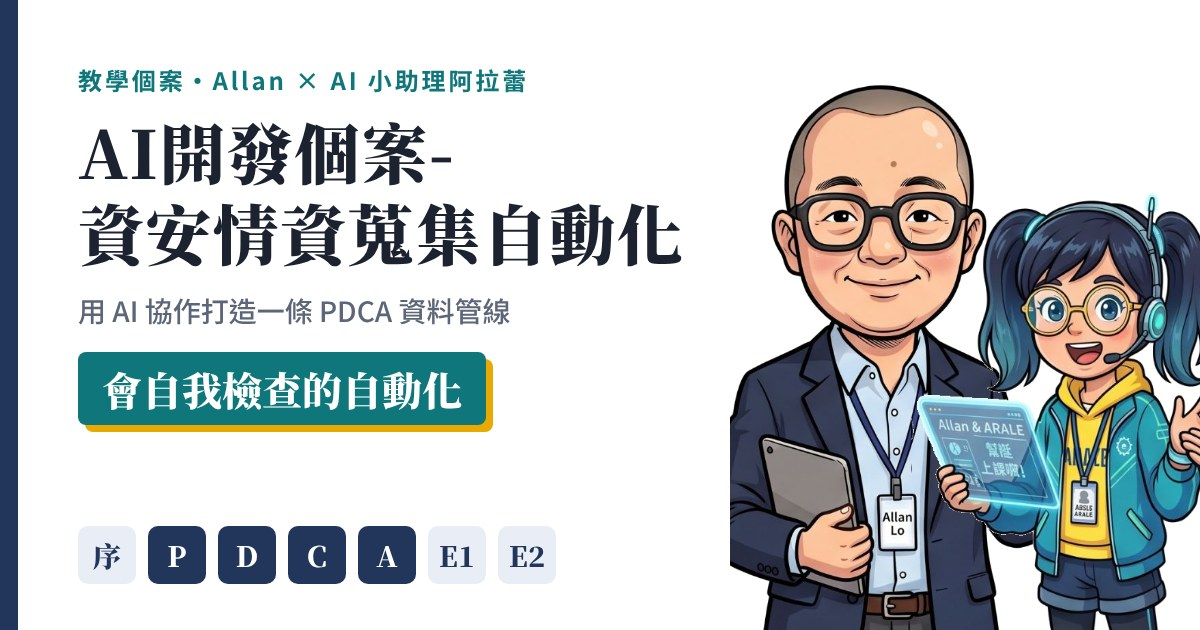
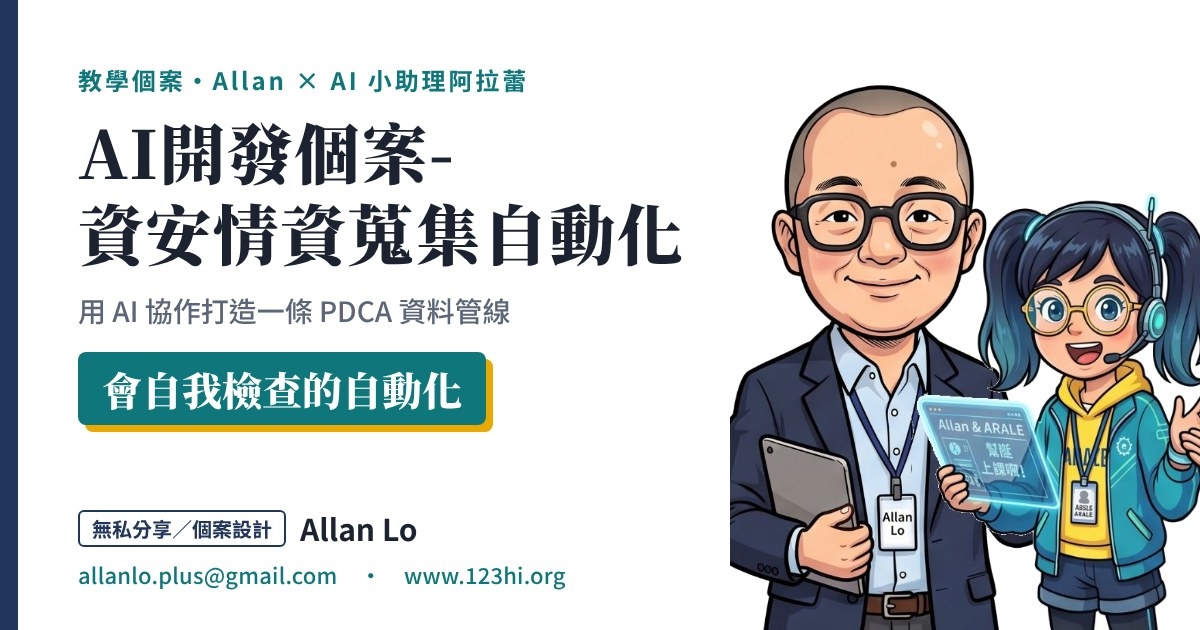
Add author credit to the share card
Claude-Session: https://claude.ai/code/session_01C7NPA9Dx8JzUvtJLURSzXs

Changed region(s): [[0.0617, 0.7841, 0.4933, 0.9349]]

diff --git a/docs/teaching/web/template.html b/docs/teaching/web/template.html
@@ -13,8 +13,8 @@
 <meta property="og:url" content="https://allanloplus.github.io/intelligence/teaching/">
 <meta property="og:title" content="AI開發個案-資安情資蒐集自動化">
 <meta property="og:description" content="Allan 講師與 AI 小助理阿拉蕾的對話式教學個案：怎麼向 AI 交代工作，以及自動化做完後，怎麼知道它有在做、做得對、沒做時會自己補上。主篇 5 集＋延伸篇 2 集。">
-<meta property="og:image" content="https://allanloplus.github.io/intelligence/teaching/og.jpg?v=2">
-<meta property="og:image:secure_url" content="https://allanloplus.github.io/intelligence/teaching/og.jpg?v=2">
+<meta property="og:image" content="https://allanloplus.github.io/intelligence/teaching/og.jpg?v=3">
+<meta property="og:image:secure_url" content="https://allanloplus.github.io/intelligence/teaching/og.jpg?v=3">
 <meta property="og:image:type" content="image/jpeg">
 <meta property="og:image:width" content="1200">
 <meta property="og:image:height" content="630">
@@ -22,7 +22,7 @@
 <meta name="twitter:card" content="summary_large_image">
 <meta name="twitter:title" content="AI開發個案-資安情資蒐集自動化">
 <meta name="twitter:description" content="Allan 講師與 AI 小助理阿拉蕾的對話式教學個案：怎麼向 AI 交代工作，以及自動化做完後，怎麼知道它有在做、做得對、沒做時會自己補上。主篇 5 集＋延伸篇 2 集。">
-<meta name="twitter:image" content="https://allanloplus.github.io/intelligence/teaching/og.jpg?v=2">
+<meta name="twitter:image" content="https://allanloplus.github.io/intelligence/teaching/og.jpg?v=3">
 <meta name="claude:viewport-fit-sides" content="cover">
 <link rel="preconnect" href="https://fonts.googleapis.com">
 <link rel="preconnect" href="https://fonts.gstatic.com" crossorigin>

diff --git a/site/teaching/index.html b/site/teaching/index.html
@@ -13,8 +13,8 @@
 <meta property="og:url" content="https://allanloplus.github.io/intelligence/teaching/">
 <meta property="og:title" content="AI開發個案-資安情資蒐集自動化">
 <meta property="og:description" content="Allan 講師與 AI 小助理阿拉蕾的對話式教學個案：怎麼向 AI 交代工作，以及自動化做完後，怎麼知道它有在做、做得對、沒做時會自己補上。主篇 5 集＋延伸篇 2 集。">
-<meta property="og:image" content="https://allanloplus.github.io/intelligence/teaching/og.jpg?v=2">
-<meta property="og:image:secure_url" content="https://allanloplus.github.io/intelligence/teaching/og.jpg?v=2">
+<meta property="og:image" content="https://allanloplus.github.io/intelligence/teaching/og.jpg?v=3">
+<meta property="og:image:secure_url" content="https://allanloplus.github.io/intelligence/teaching/og.jpg?v=3">
 <meta property="og:image:type" content="image/jpeg">
 <meta property="og:image:width" content="1200">
 <meta property="og:image:height" content="630">
@@ -22,7 +22,7 @@
 <meta name="twitter:card" content="summary_large_image">
 <meta name="twitter:title" content="AI開發個案-資安情資蒐集自動化">
 <meta name="twitter:description" content="Allan 講師與 AI 小助理阿拉蕾的對話式教學個案：怎麼向 AI 交代工作，以及自動化做完後，怎麼知道它有在做、做得對、沒做時會自己補上。主篇 5 集＋延伸篇 2 集。">
-<meta name="twitter:image" content="https://allanloplus.github.io/intelligence/teaching/og.jpg?v=2">
+<meta name="twitter:image" content="https://allanloplus.github.io/intelligence/teaching/og.jpg?v=3">
 <meta name="claude:viewport-fit-sides" content="cover">
 <link rel="preconnect" href="https://fonts.googleapis.com">
 <link rel="preconnect" href="https://fonts.gstatic.com" crossorigin>

diff --git a/docs/teaching/web/og/card.html b/docs/teaching/web/og/card.html
@@ -17,6 +17,11 @@ h1{font-family:"Noto Serif TC",serif;font-weight:900;font-size:66px;line-height:
 .who img{position:absolute;bottom:-10px}
 .al{left:-40px;height:560px}
 .ar{right:-30px;height:450px}
+.credit{position:absolute;left:78px;bottom:40px}
+.credit .l1{display:flex;align-items:center;gap:14px}
+.credit .cl{font-size:20px;font-weight:700;color:#22355b;border:2px solid #22355b;border-radius:6px;padding:2px 12px}
+.credit b{font-size:30px;font-weight:700;color:#1c2230}
+.credit .l2{margin-top:8px;font-size:22px;color:#0f777b;font-weight:500;letter-spacing:.01em}
 .tag{position:absolute;right:28px;top:30px;font-size:20px;color:#5d6678;font-weight:700}
 </style></head><body>
 <div class="card">
@@ -30,6 +35,6 @@ h1{font-family:"Noto Serif TC",serif;font-weight:900;font-size:66px;line-height:
     <img class="al" src="allan.png" alt="">
     <img class="ar" src="arale.png" alt="">
   </div>
-  <div class="steps"><b>序</b><b class="on">P</b><b class="on">D</b><b class="on">C</b><b class="on">A</b><b>E1</b><b>E2</b></div>
+  <div class="credit"><div class="l1"><span class="cl">無私分享／個案設計</span><b>Allan Lo</b></div><div class="l2">allanlo.plus@gmail.com　・　www.123hi.org</div></div>
 </div>
 </body></html>
